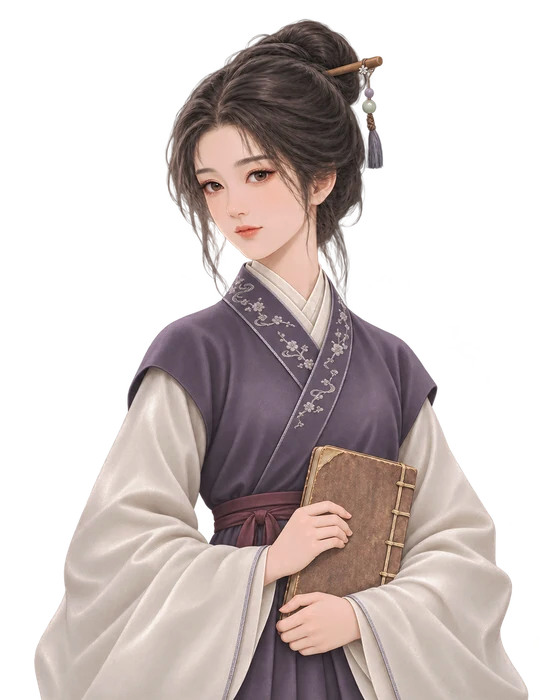
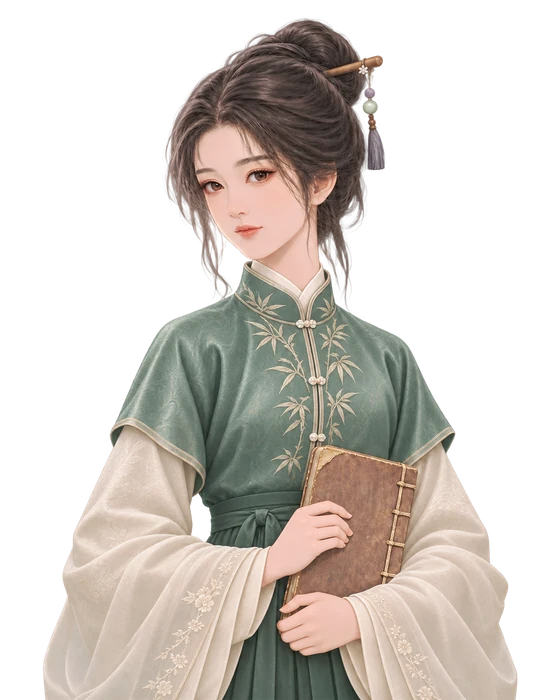
给楚晚加入按位分更换的服装

diff --git a/js/portraits.js b/js/portraits.js
@@ -551,7 +551,11 @@ function localPortrait(cell,rank,attrs,jewelry='',bust=false){
 }
 
 function porImg(x,size=64){
-  if(x?.fixedStory&&storyCastData(x.fixedStory))return `<img class="por palace-portrait${x.cold||x.alive===false?' cold':''}" src="./assets/images/story-cast/${x.fixedStory}.webp?v=gouyi-style-2" alt="" width="${size}" height="${size*1.25}" style="object-fit:cover${size<=84?';object-view-box:inset(0 9% 18%)':''}">`;
+  if(x?.fixedStory&&storyCastData(x.fixedStory)){
+    const outfit=x.fixedStory==='chuwan'&&Number.isInteger(x.enteredAt)?
+      (x.rank>=6?'-grand':x.rank>=4?'-noble':'-court'):'';
+    return `<img class="por palace-portrait${x.cold||x.alive===false?' cold':''}" src="./assets/images/story-cast/${x.fixedStory}${outfit}.webp?v=gouyi-style-3" alt="" width="${size}" height="${size*1.25}" style="object-fit:cover${size<=84?';object-view-box:inset(0 9% 18%)':''}">`;
+  }
   if(Number.isInteger(x?.courtCraneCell))return courtSpecialPortrait(x,size);
   if(x?.appearance)x=x.appearance;
   if(x?.daoMaster||Number.isInteger(x?.courtCraneCell))return courtSpecialPortrait(x,size);
